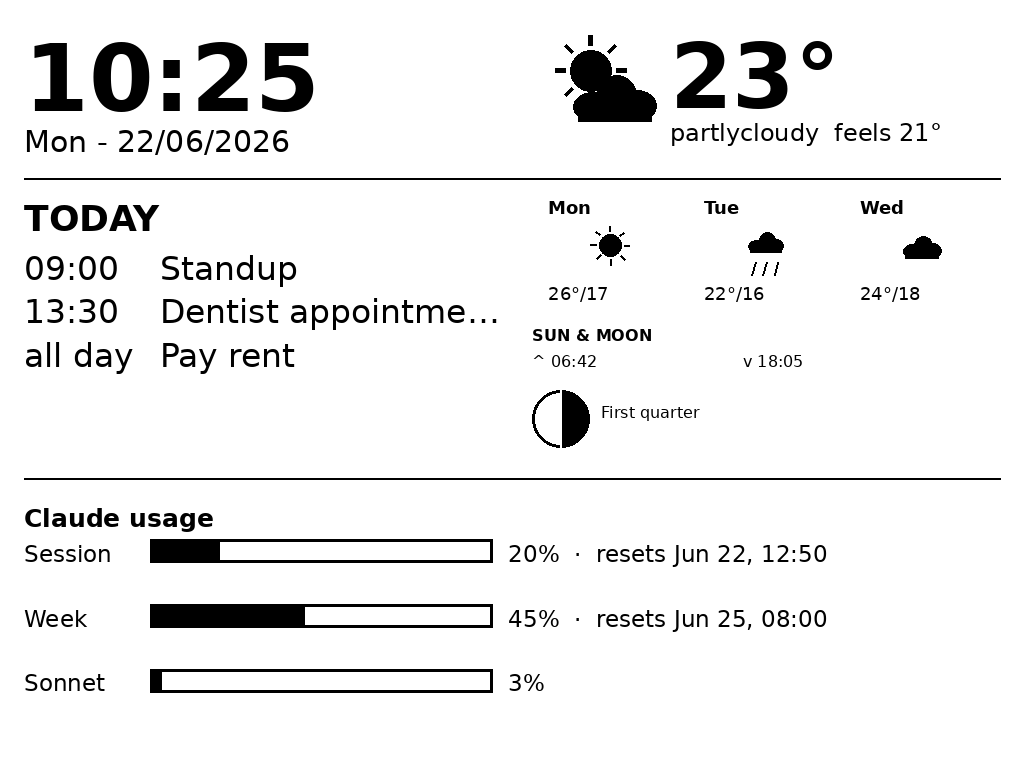
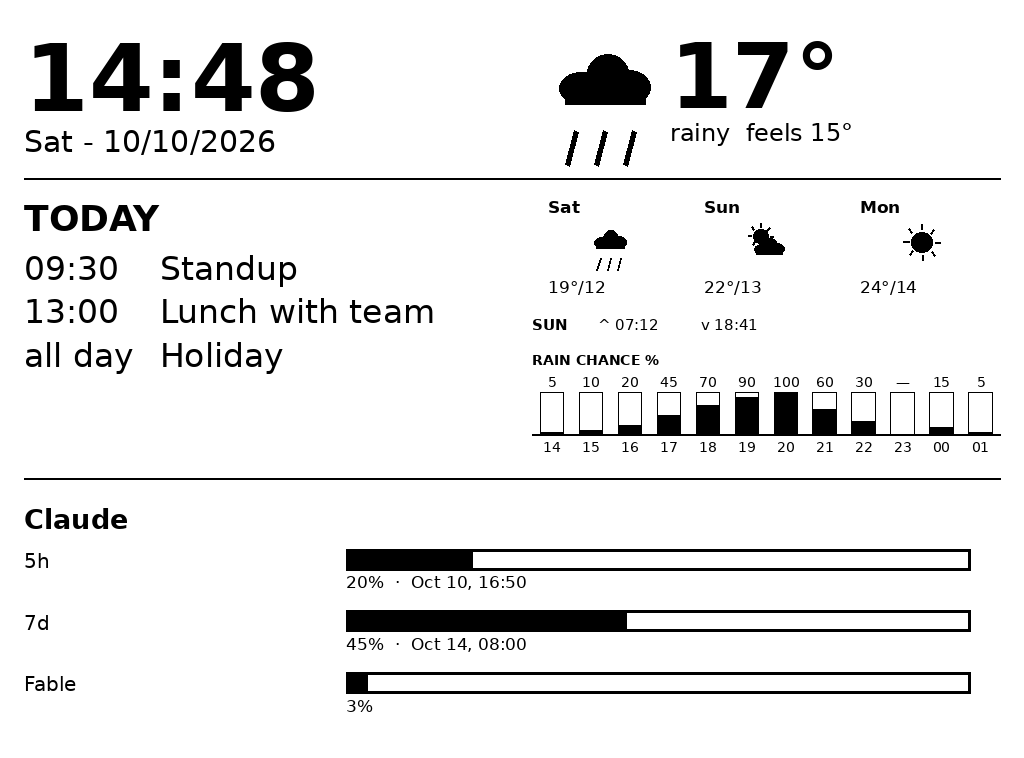
feat: replace moon phase with hourly rain chance chart
Drop the computed moon-phase glyph. The old sunmoon panel splits into
"sun" (sunrise/sunset on one row) and "rain": a bar chart of the chance
of rain for each of the next RAIN_HOURS hours (default 12), read from
HA's weather.get_forecasts with type=hourly.

The legacy DASH_WIDGETS name "sunmoon" expands to "sun,rain" so
existing configs keep working.

diff --git a/renderer/app.py b/renderer/app.py
@@ -49,17 +49,21 @@ DASH_ROTATE = int(os.environ.get("DASH_ROTATE", "0"))
 DASH_DARK = os.environ.get("DASH_DARK", "0").lower() in ("1", "true", "yes", "on")
 DASH_WIDGETS = [
     w.strip()
-    for w in os.environ.get("DASH_WIDGETS", "clock,weather,forecast,agenda,sunmoon,usage").split(",")
+    for w in os.environ.get("DASH_WIDGETS", "clock,weather,forecast,agenda,sun,rain,usage").split(",")
     if w.strip()
 ]
+# The old "sunmoon" panel became "sun" (sunrise/sunset only) + "rain" (hourly
+# rain chance); expand the legacy name so existing configs keep working.
+DASH_WIDGETS = [n for w in DASH_WIDGETS for n in (("sun", "rain") if w == "sunmoon" else (w,))]
 
-# Home Assistant (optional) — powers weather, forecast, sun, and agenda widgets.
+# Home Assistant (optional) — powers weather, forecast, rain, sun, and agenda widgets.
 HA_BASE_URL = os.environ.get("HA_BASE_URL", "").rstrip("/")
 HA_TOKEN = os.environ.get("HA_TOKEN", "")
 HA_WEATHER_ENTITY = os.environ.get("HA_WEATHER_ENTITY", "")
 HA_CALENDAR_ENTITY = os.environ.get("HA_CALENDAR_ENTITY", "")
 HA_SUN_ENTITY = os.environ.get("HA_SUN_ENTITY", "sun.sun")
 FORECAST_DAYS = int(os.environ.get("FORECAST_DAYS", "3"))
+RAIN_HOURS = int(os.environ.get("RAIN_HOURS", "12"))  # columns in the rain chart
 MAX_EVENTS = int(os.environ.get("DASH_MAX_EVENTS", "4"))
 DASH_POLL_MIN = int(os.environ.get("DASH_POLL_MIN", "5"))  # HA refresh cadence
 
@@ -177,6 +181,35 @@ def fetch_forecast():
     return out or None
 
 
+def parse_hourly(resp, entity):
+    """[(local_dt, rain_pct-or-None)] from a get_forecasts hourly response, or None."""
+    try:
+        hours = resp["service_response"][entity]["forecast"]
+    except Exception:
+        return None
+    out = []
+    for f in hours:
+        dt = _local(f.get("datetime"))
+        if dt is None:
+            continue
+        pct = f.get("precipitation_probability")
+        out.append((dt, round(pct) if isinstance(pct, (int, float)) else None))
+    return out or None
+
+
+def fetch_hourly():
+    """Hourly rain probability (see parse_hourly), or None."""
+    if not HA_WEATHER_ENTITY:
+        return None
+    resp = _ha(
+        "POST",
+        "/api/services/weather/get_forecasts",
+        {"entity_id": HA_WEATHER_ENTITY, "type": "hourly"},
+        return_response="true",
+    )
+    return parse_hourly(resp, HA_WEATHER_ENTITY)
+
+
 def fetch_sun():
     """(sunrise_dt, sunset_dt) in local tz, or (None, None)."""
     data = _ha("GET", f"/api/states/{HA_SUN_ENTITY}") if HA_SUN_ENTITY else None
@@ -218,7 +251,10 @@ def fetch_events():
 # fetches there would block the response on serial network calls. Instead poll
 # them in the background and have the widgets read this snapshot (rebound
 # atomically, so a reader always sees one consistent dict).
-HA_DATA = {"weather": (None, None, None), "forecast": None, "sun": (None, None), "events": None}
+HA_DATA = {
+    "weather": (None, None, None), "forecast": None, "hourly": None,
+    "sun": (None, None), "events": None,
+}
 
 
 def ha_poll_loop():
@@ -227,23 +263,11 @@ def ha_poll_loop():
         HA_DATA = {
             "weather": fetch_weather(),
             "forecast": fetch_forecast(),
+            "hourly": fetch_hourly(),
             "sun": fetch_sun(),
             "events": fetch_events(),
         }
         time.sleep(DASH_POLL_MIN * 60)
-
-
-def moon_phase(now):
-    """Return (phase 0..1, illumination 0..1, name). Pure local synodic approx."""
-    ref = datetime(2000, 1, 6, 18, 14, tzinfo=timezone.utc)  # a known new moon
-    days = (now.astimezone(timezone.utc) - ref).total_seconds() / 86400.0
-    phase = (days % 29.53058867) / 29.53058867
-    illum = (1 - math.cos(2 * math.pi * phase)) / 2
-    names = [
-        "New", "Waxing crescent", "First quarter", "Waxing gibbous",
-        "Full", "Waning gibbous", "Last quarter", "Waning crescent",
-    ]
-    return phase, illum, names[int(phase * 8 + 0.5) % 8]
 
 
 # --- Claude usage: OAuth token refresh + usage fetch -----------------------
@@ -731,27 +755,39 @@ def w_agenda(d, box):
         yy += h * 0.17
 
 
-def w_sunmoon(d, box):
+def w_sun(d, box):
     x, y, w, h = box
     rise, sett = HA_DATA["sun"]
-    phase, illum, name = moon_phase(datetime.now(TZINFO))
-    f = _font(False, h * 0.13)
-    d.text((x, y), "SUN & MOON", font=_font(True, h * 0.13), fill=0)
-    yy = y + h * 0.2
-    d.text((x, yy), f"^ {rise.strftime('%H:%M')}" if rise else "^ --", font=f, fill=0)
-    d.text((x + w * 0.45, yy), f"v {sett.strftime('%H:%M')}" if sett else "v --", font=f, fill=0)
-    # moon glyph: disk + terminator showing the lit fraction
-    mr = h * 0.22
-    mcx, mcy = x + mr, y + h * 0.72
-    d.ellipse((mcx - mr, mcy - mr, mcx + mr, mcy + mr), outline=0, width=3)
-    if illum >= 0.98:
-        d.ellipse((mcx - mr, mcy - mr, mcx + mr, mcy + mr), fill=0)
-    elif illum > 0.02:
-        lit_right = phase < 0.5
-        d.chord((mcx - mr, mcy - mr, mcx + mr, mcy + mr), -90, 90 if lit_right else -90, fill=0)
-        k = abs(2 * illum - 1) * mr
-        d.ellipse((mcx - k, mcy - mr, mcx + k, mcy + mr), fill=0 if illum > 0.5 else 255)
-    d.text((mcx + mr + 12, mcy - h * 0.12), name, font=f, fill=0)
+    f = _font(False, h * 0.62)
+    d.text((x, y), "SUN", font=_font(True, h * 0.62), fill=0)
+    d.text((x + w * 0.14, y), f"^ {rise.strftime('%H:%M')}" if rise else "^ --", font=f, fill=0)
+    d.text((x + w * 0.36, y), f"v {sett.strftime('%H:%M')}" if sett else "v --", font=f, fill=0)
+
+
+def w_rain(d, box):
+    """Hour-by-hour rain probability: one bar per hour, % above, hour below."""
+    x, y, w, h = box
+    d.text((x, y), "RAIN CHANCE %", font=_font(True, h * 0.14), fill=0)
+    f = _font(False, h * 0.14)
+    now = datetime.now(TZINFO).replace(minute=0, second=0, microsecond=0)
+    hours = [(dt, pct) for dt, pct in HA_DATA["hourly"] or [] if dt >= now][:RAIN_HOURS]
+    if not hours:
+        d.text((x, y + h * 0.25), "rain n/a", font=f, fill=0)
+        return
+    # Fixed pitch (not w/len(hours)) so bars keep their width when HA returns
+    # fewer hours than RAIN_HOURS.
+    cw = w / RAIN_HOURS
+    bw = cw * 0.6
+    top, base = y + h * 0.40, y + h * 0.80
+    for i, (dt, pct) in enumerate(hours):
+        cx = x + cw * (i + 0.5)
+        d.rectangle((cx - bw / 2, top, cx + bw / 2, base), outline=0, width=1)  # 100% track
+        if pct:
+            d.rectangle((cx - bw / 2, base - (base - top) * min(pct, 100) / 100, cx + bw / 2, base), fill=0)
+        label = "—" if pct is None else str(pct)
+        d.text((cx, y + h * 0.22), label, font=f, fill=0, anchor="ma")
+        d.text((cx, base + h * 0.05), dt.strftime("%H"), font=f, fill=0, anchor="ma")
+    d.line((x, base, x + cw * len(hours), base), fill=0, width=2)
 
 
 def _rows(usage, keys):
@@ -788,7 +824,7 @@ def w_opencode(d, box):
 
 WIDGET_FNS = {
     "clock": w_clock, "weather": w_weather, "agenda": w_agenda,
-    "forecast": w_forecast, "sunmoon": w_sunmoon,
+    "forecast": w_forecast, "sun": w_sun, "rain": w_rain,
     "usage": w_usage, "codex": w_codex, "opencode": w_opencode,
 }
 # Providers that share the bottom usage strip (split into columns, in order).
@@ -820,8 +856,9 @@ def render(rotate=None):
         "clock": (pad, pad, mid - pad, hdr_h),
         "weather": (mid, pad, rcol, hdr_h),
         "agenda": (pad, mid_y, mid - 2 * pad, midrow),
-        "forecast": (mid, mid_y, rcol, midrow * 0.45),
-        "sunmoon": (mid, mid_y + midrow * 0.5, rcol, midrow * 0.5),
+        "forecast": (mid, mid_y, rcol, midrow * 0.42),
+        "sun": (mid, mid_y + midrow * 0.46, rcol, midrow * 0.1),
+        "rain": (mid, mid_y + midrow * 0.6, rcol, midrow * 0.4),
     }
     # The bottom strip is the usage zone: split it into equal columns, one per
     # enabled usage provider (Claude / Codex / opencode), in DASH_WIDGETS order.

diff --git a/tests/test_contracts.py b/tests/test_contracts.py
@@ -3,7 +3,7 @@ import json
 import pathlib
 import tempfile
 import unittest
-from datetime import datetime, timezone
+from datetime import datetime, timedelta, timezone
 from io import BytesIO
 from unittest import mock
 
@@ -99,6 +99,30 @@ class RenderContract(unittest.TestCase):
         # Bar starts at x=99 with a 3px outline. A non-zero value must fill
         # at least the first interior pixel instead of disappearing under it.
         self.assertEqual(image.getpixel((102, 70)), 0)
+
+    def test_hourly_forecast_parses_rain_probability(self):
+        resp = {"service_response": {"weather.home": {"forecast": [
+            {"datetime": "2026-07-19T18:00:00+00:00", "precipitation_probability": 40},
+            {"datetime": "2026-07-19T19:00:00+00:00", "precipitation_probability": 72.6},
+            {"datetime": "2026-07-19T20:00:00+00:00"},
+            {"precipitation_probability": 10},
+        ]}}}
+        result = app.parse_hourly(resp, "weather.home")
+        self.assertEqual([pct for _, pct in result], [40, 73, None])
+        self.assertEqual(result[0][0], NOW)
+        self.assertIsNone(app.parse_hourly(None, "weather.home"))
+        self.assertIsNone(app.parse_hourly(resp, "weather.other"))
+
+    def test_rain_chart_skips_past_hours(self):
+        now = datetime.now(app.TZINFO).replace(minute=0, second=0, microsecond=0)
+        past = [(now - timedelta(hours=2), 100), (now - timedelta(hours=1), 100)]
+        image = Image.new("L", (400, 120), 255)
+        draw = ImageDraw.Draw(image)
+        with mock.patch.dict(app.HA_DATA, {"hourly": past + [(now, 0)]}):
+            app.w_rain(draw, (0, 0, 400, 120))
+        # The first column is the current 0% hour, not a past 100% one: the
+        # inside of its bar stays white.
+        self.assertEqual(image.getpixel((16, 70)), 255)
 
     def test_empty_fixture_render_is_deterministic_png(self):
         widgets = app.DASH_WIDGETS

diff --git a/CONFIGURATION.md b/CONFIGURATION.md
@@ -10,13 +10,13 @@ All renderer config is environment variables (in `renderer/.env`; see `.env.exam
 | `TZ` | `UTC` | IANA tz, e.g. `America/Sao_Paulo`. Drives the clock + all formatted times. |
 | `DASH_ROTATE` | `0` | `0/90/180/270`. Rotates the frame **server-side** — `90` fills a portrait panel mounted sideways (`270` if upside down). |
 | `DASH_DARK` | `0` | `1` = light-on-black (e-ink dark mode; the whole frame is inverted). |
-| `DASH_WIDGETS` | all | Comma list of panels to draw, in order: `clock,weather,forecast,agenda,sunmoon,usage`. Drop any to hide it. The usage providers (`usage`=Claude, `codex`, `opencode`) share the bottom strip and split it into one column each. |
+| `DASH_WIDGETS` | all | Comma list of panels to draw, in order: `clock,weather,forecast,agenda,sun,rain,usage`. Drop any to hide it. The legacy name `sunmoon` still works and expands to `sun,rain`. The usage providers (`usage`=Claude, `codex`, `opencode`) share the bottom strip and split it into one column each. |
 | `PORT` | `8810` | Host port the container publishes (compose). |
 | `DASH_FONT_DIR` | `/usr/share/fonts/truetype/dejavu` | Where the DejaVu TTFs live (the image ships them). |
 
 > **All visual options live here, not on the device.** Rotation, dark mode, and the widget set are container env — the Kindle only ever opens the bare `GET /dash.png`. Change a knob, recreate the container, done; nothing to touch on the Kindle.
 
-## Home Assistant (weather · forecast · sun · agenda)
+## Home Assistant (weather · forecast · rain · sun · agenda)
 
 Optional. Create a long-lived token: HA → Profile → Security → Long-lived access tokens.
 
@@ -24,13 +24,14 @@ Optional. Create a long-lived token: HA → Profile → Security → Long-lived 
 |---|---|---|
 | `HA_BASE_URL` | `http://192.168.1.5:8123` | all HA panels (blank = all off) |
 | `HA_TOKEN` | `eyJ…` | auth |
-| `HA_WEATHER_ENTITY` | `weather.home` | weather **and** the forecast strip |
+| `HA_WEATHER_ENTITY` | `weather.home` | weather, the forecast strip, **and** the rain chart |
 | `HA_CALENDAR_ENTITY` | `calendar.personal` | agenda (blank = hidden) |
-| `HA_SUN_ENTITY` | `sun.sun` | sunrise/sunset (moon phase is computed locally, no entity needed) |
+| `HA_SUN_ENTITY` | `sun.sun` | sunrise/sunset |
 | `FORECAST_DAYS` | `3` | days in the forecast strip |
+| `RAIN_HOURS` | `12` | hours in the rain chart (from the current hour) |
 | `DASH_MAX_EVENTS` | `4` | agenda rows |
 
-Forecast uses HA's `weather.get_forecasts` service; if your weather integration doesn't support daily forecasts, the strip just hides.
+Forecast uses HA's `weather.get_forecasts` service; if your weather integration doesn't support daily forecasts, the strip just hides. The rain chart uses the same service with `type: hourly` and reads `precipitation_probability`; if the integration has no hourly forecast it shows `rain n/a`, and an hour with no probability shows `—`.
 
 ## Claude usage (5h / 7d / Extra)
 

diff --git a/README.md b/README.md
@@ -1,6 +1,6 @@
 # kindle-dash
 
-Turn a dead/old jailbroken Kindle into a calm, glare-free **e-ink wall dashboard** — clock, weather, a 3-day forecast, today's agenda, sun & moon, and your live **AI subscription usage** (Claude · Codex · opencode) — rendered server-side and painted by the device on a timer.
+Turn a dead/old jailbroken Kindle into a calm, glare-free **e-ink wall dashboard** — clock, weather, a 3-day forecast, hour-by-hour rain chance, today's agenda, sunrise/sunset, and your live **AI subscription usage** (Claude · Codex · opencode) — rendered server-side and painted by the device on a timer.
 
 > *Your Kindle didn't die. It ascended into furniture.*
 
@@ -16,7 +16,8 @@ No glowing rectangle, no app, no cloud account. A tiny container renders a grays
 - **Weather now** — temperature, condition, "feels like", drawn icon (no icon fonts to ship).
 - **Forecast** — next N days (hi/lo + icon).
 - **Agenda** — today's calendar events.
-- **Sun & moon** — sunrise/sunset + a computed moon-phase glyph.
+- **Rain** — chance of rain for each of the next N hours, as a bar chart.
+- **Sun** — sunrise/sunset.
 - **AI usage** — live subscription limits side by side: Claude (5h/7d/Extra), Codex (available windows/Credits), opencode Go (5h/Week/Month). Columns size themselves to however many you enable.
 
 Every panel is optional. A panel with no data source configured just renders a quiet placeholder — never a broken image.

diff --git a/WIDGETS.md b/WIDGETS.md
@@ -56,7 +56,7 @@ Return shapes to match: weather `(condition, temp, feels)` · forecast `[(label,
 
 ## Shipped
 
-Clock · Weather (now) · Forecast (N-day) · Agenda (HA calendar) · Sun & Moon (HA sun + local moon phase) · Claude usage (5h/7d/Extra) · Codex usage (available windows/Credits) · opencode Go usage (5h/Week/Month).
+Clock · Weather (now) · Forecast (N-day) · Rain (HA hourly forecast, chance per hour) · Agenda (HA calendar) · Sun (HA sunrise/sunset) · Claude usage (5h/7d/Extra) · Codex usage (available windows/Credits) · opencode Go usage (5h/Week/Month).
 
 The three usage providers (`usage`=Claude, `codex`, `opencode`) share one `_usage_block` renderer and split the bottom strip into a column each. Claude and Codex read OAuth usage APIs (refresh-token seeded); **opencode has no usage API, so its widget scrapes the Go dashboard HTML** with a browser cookie — see CONFIGURATION.md for the fragility caveat.
 
